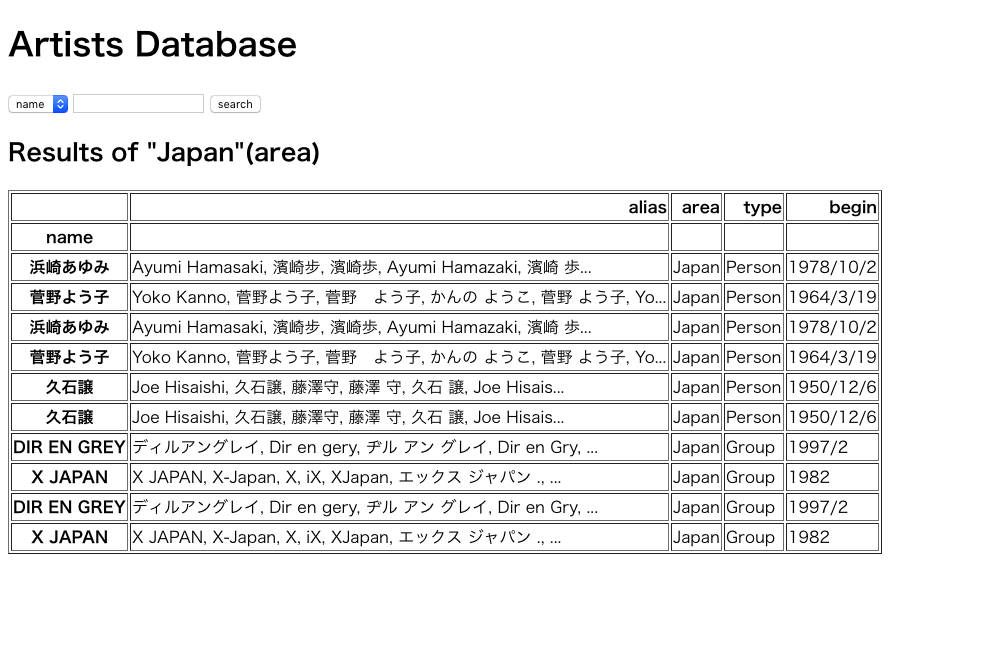
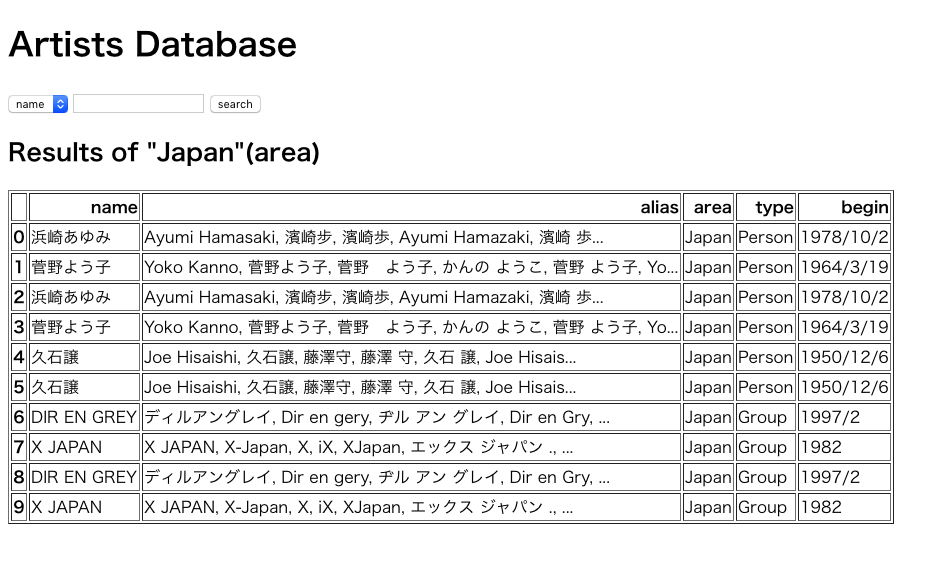
reset

Changed region(s): [[0.0, 0.0312, 0.9513, 0.9062]]

diff --git a/chapter07/src/app.py b/chapter07/src/app.py
@@ -1,5 +1,4 @@
 from flask import Flask, render_template, request
-from itertools import islice
 from pymongo import MongoClient
 import pymongo
 import pandas as pd
@@ -27,7 +26,7 @@ class Artist_searcher:
             return collection_artist.find({"tags.value":self.query})
 
     def sort_pymongo_rating(self, mongo):
-        for post in islice(mongo.sort("rating.count", -1), 10):
+        for post in mongo.sort("rating.count", -1).limit(10):
             yield post
 
     def get_info(self, post):
@@ -59,14 +58,15 @@ class Artist_searcher:
                           columns=['name','alias','area','type','begin'])
         return df
 
-# ------------------
+
+
+app = Flask(__name__)
 
 client = MongoClient('localhost', 27017)
 db_artist = client.database_artist
 collection_artist = db_artist.collection_artist
 
 searcher = Artist_searcher()
-app = Flask(__name__)
 
 @app.route('/')
 def index():
@@ -74,15 +74,15 @@ def index():
 
 @app.route('/post', methods=['GET', 'POST'])
 def search():
-    query = request.form['query']
     select_type = request.form['select_type']
+    query = request.form['query']
     searcher.set_info(query=query, select_type=select_type)
-    df = searcher.get_df().set_index("name").to_html(classes='books')
+    df = searcher.get_df().to_html(classes='books')
 
     return render_template('index.html',
-                            data_frame=df,
+                            select_type=select_type,
                             query=query,
-                            select_type=select_type)
+                            data_frame=df)
 
 if __name__ == "__main__":
     app.debug=True
